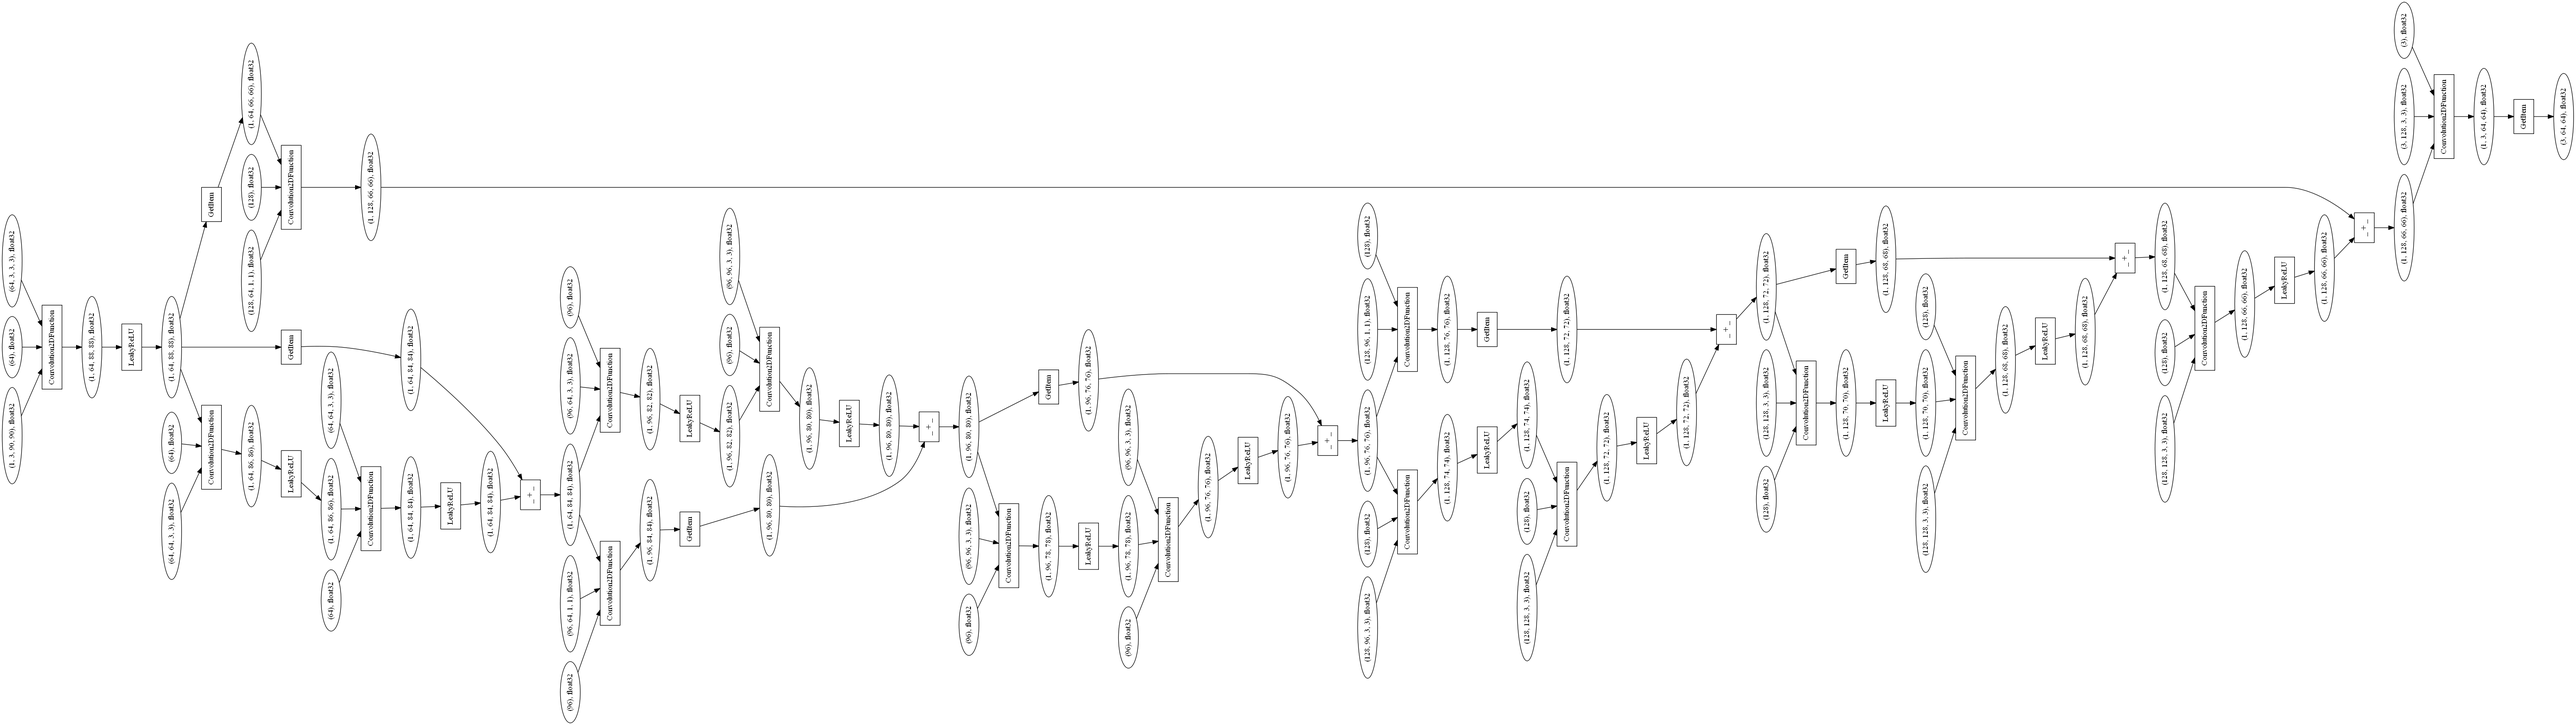
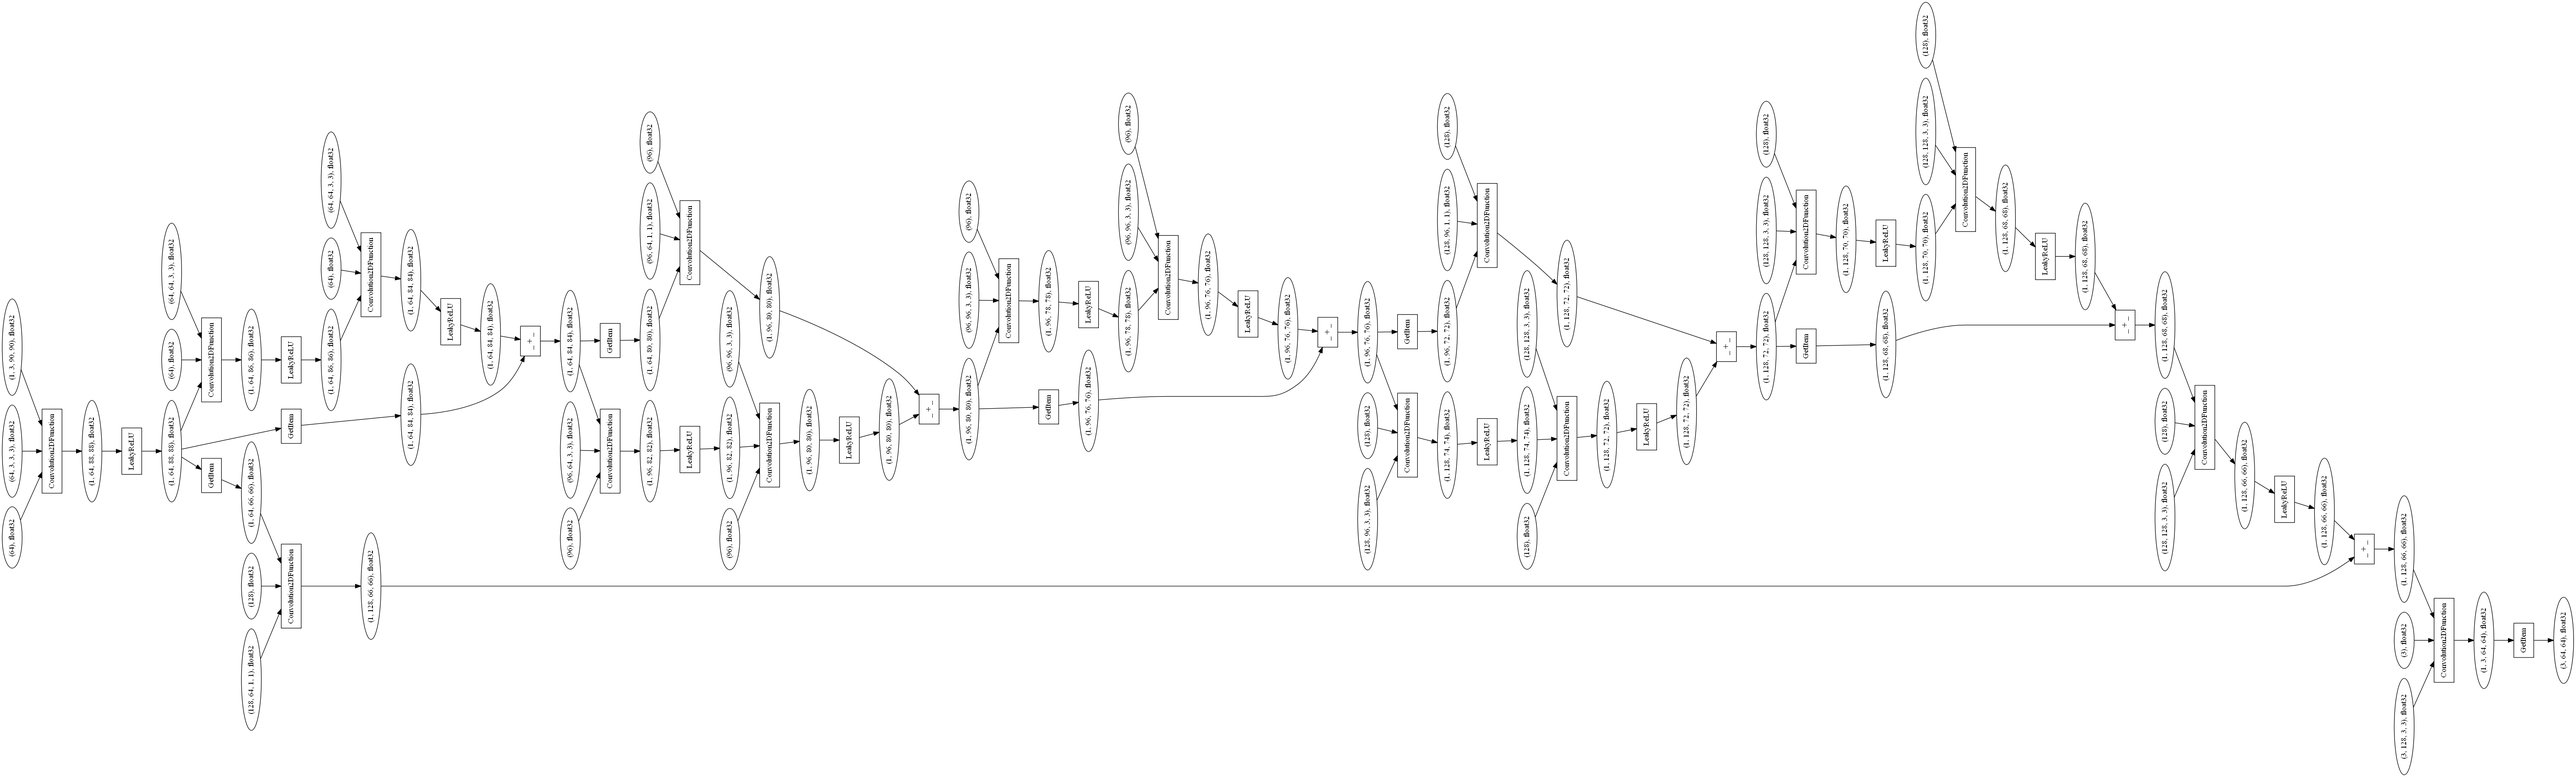
Modify SRResNet model architecture

diff --git a/lib/srcnn.py b/lib/srcnn.py
@@ -66,15 +66,17 @@ class SRResBlock(chainer.Chain):
             conv2=L.Convolution2D(out_channels, out_channels, 3),
         )
         if in_channels != out_channels:
-            conv_skip = L.Convolution2D(in_channels, out_channels, 1)
-            self.add_link('conv_skip', conv_skip)
+            conv_bridge = L.Convolution2D(in_channels, out_channels, 1)
+            self.add_link('conv_bridge', conv_bridge)
 
     def __call__(self, x):
         h = F.leaky_relu(self.conv1(x), self.slope)
         h = F.leaky_relu(self.conv2(h), self.slope)
         if self.in_channels != self.out_channels:
-            x = self.conv_skip(x)
-        return h + x[:, :, 2:-2, 2:-2]
+            x = self.conv_bridge(x[:, :, 2:-2, 2:-2])
+        else:
+            x = x[:, :, 2:-2, 2:-2]
+        return h + x
 
 
 class SRResNet_10l(chainer.Chain):
@@ -134,7 +136,7 @@ class ResUpConv_10l(chainer.Chain):
             res5=SRResBlock(128, 128),
             conv6=L.Convolution2D(128, 128, 3),
             conv_be=L.Convolution2D(128, ch, 3),
-            conv_skip=L.Convolution2D(64, 128, 1),
+            conv_bridge=L.Convolution2D(64, 128, 1),
         )
 
     def __call__(self, x):
@@ -145,7 +147,7 @@ class ResUpConv_10l(chainer.Chain):
         h = self.res4(h)
         h = self.res5(h)
         h = F.leaky_relu(self.conv6(h), 0.1)
-        h = h + self.conv_skip(skip[:, :, 11:-11, 11:-11])
+        h = h + self.conv_bridge(skip[:, :, 11:-11, 11:-11])
         h = self.conv_be(h)
         return h
 
